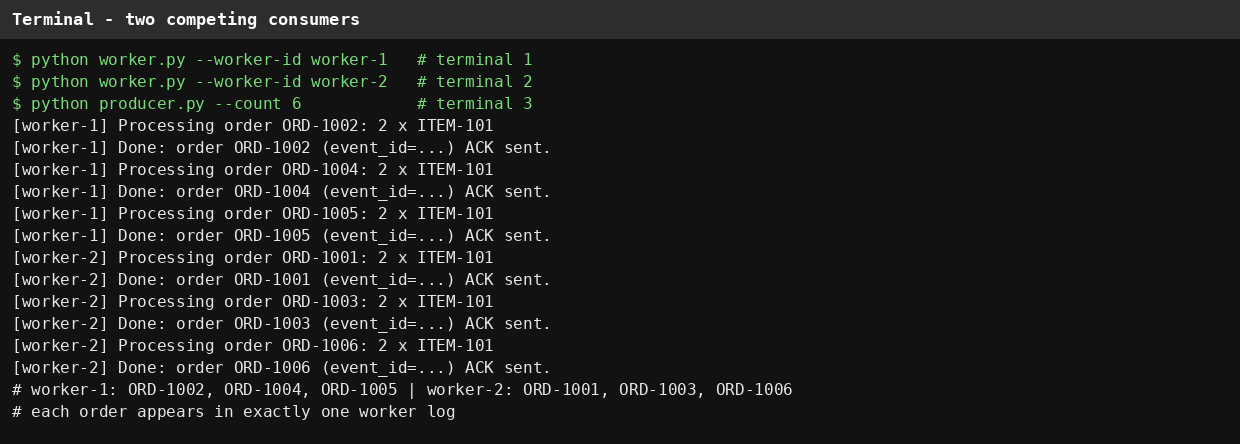
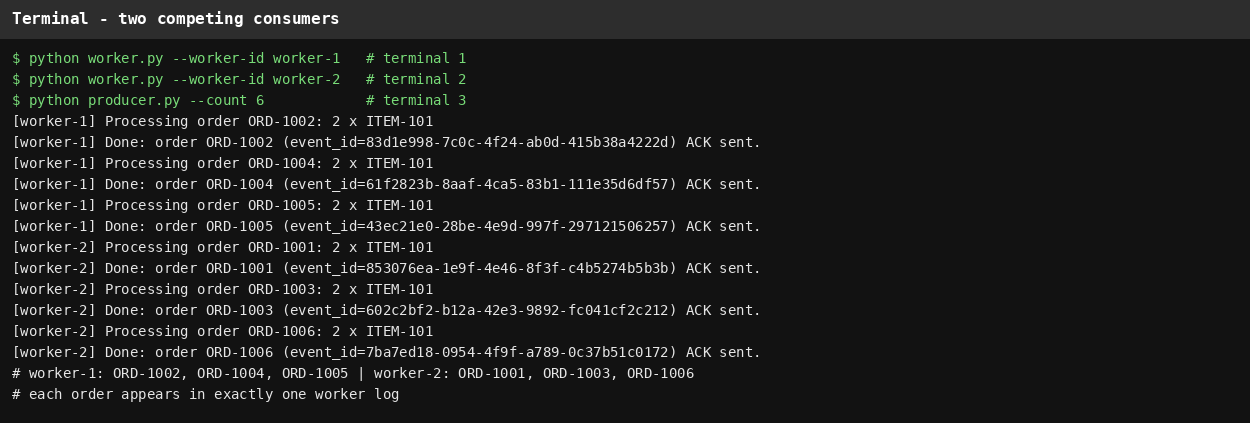
Use shared processed_events.txt for duplicate handling

Changed region(s): [[0.0, 0.1229, 0.6435, 0.9527], [0.0, 0.0307, 0.3065, 0.0922]]

diff --git a/worker.py b/worker.py
@@ -10,11 +10,17 @@ Usage:
     python worker.py --worker-id worker-2
     python worker.py --worker-id worker-1 --crash-on-event evt-001
 
-Duplicate handling: event_ids already processed by this worker are
-kept in an in-memory set. A repeat is ACKed but not processed again.
+Duplicate handling: processed event_ids are kept in a shared record,
+processed_events.txt, in the same folder as this file. Every worker
+reads that file on every message, under a file lock, so a duplicate
+is detected even when a different worker processed the first copy.
+A repeat is ACKed but not processed again. Delete
+processed_events.txt before a fresh demo run, or earlier event_ids
+will (correctly) be reported as duplicates.
 Failure handling: if the worker stops before ACKing (see
 --crash-on-event), RabbitMQ requeues the message and delivers it
-to another worker.
+to another worker. The simulated crash happens before the event_id
+is recorded, so the redelivered message is processed, not skipped.
 """
 
 import argparse
@@ -22,10 +28,45 @@ import json
 import os
 import sys
 import time
+from contextlib import contextmanager
 
 import pika
 
+try:
+    import fcntl
+except ImportError:  # non-Unix platforms: lock is skipped, file is still shared
+    fcntl = None
+
 QUEUE = "orders"
+BASE_DIR = os.path.dirname(os.path.abspath(__file__))
+PROCESSED_FILE = os.path.join(BASE_DIR, "processed_events.txt")
+LOCK_FILE = os.path.join(BASE_DIR, "processed_events.lock")
+
+
+@contextmanager
+def shared_lock():
+    """Hold an exclusive lock on the shared record, if fcntl is available."""
+    if fcntl is None:
+        yield
+        return
+    with open(LOCK_FILE, "a") as lock:
+        fcntl.flock(lock, fcntl.LOCK_EX)
+        try:
+            yield
+        finally:
+            fcntl.flock(lock, fcntl.LOCK_UN)
+
+
+def is_processed(event_id):
+    if not os.path.exists(PROCESSED_FILE):
+        return False
+    with open(PROCESSED_FILE) as f:
+        return event_id in {line.strip() for line in f if line.strip()}
+
+
+def mark_processed(event_id):
+    with open(PROCESSED_FILE, "a") as f:
+        f.write(event_id + "\n")
 
 
 def main():
@@ -34,9 +75,13 @@ def main():
     parser.add_argument("--crash-on-event", default=None,
                         help="Simulate a crash on this event_id: exit "
                              "without sending an ACK.")
+    parser.add_argument("--priority", type=int, default=0,
+                        help="Consumer priority (x-priority): RabbitMQ "
+                             "delivers to the highest-priority idle "
+                             "worker first. Used in the failure demo so "
+                             "the crashing worker receives the message "
+                             "even though both workers are running.")
     args = parser.parse_args()
-
-    processed = set()  # in-memory store of processed event_ids
 
     connection = pika.BlockingConnection(
         pika.ConnectionParameters(host="localhost"))
@@ -49,29 +94,36 @@ def main():
         event_id = order["event_id"]
         print(f"[{args.worker_id}] Received: {order}", flush=True)
 
-        if event_id in processed:
-            print(f"[{args.worker_id}] Duplicate detected: "
-                  f"event_id={event_id} already processed, "
-                  f"skipping business action.", flush=True)
-            ch.basic_ack(delivery_tag=method.delivery_tag)
-            return
-
+        # Simulated crash: before the event_id is recorded, so the
+        # redelivered message is processed by the next worker.
         if args.crash_on_event and event_id == args.crash_on_event:
             print(f"[{args.worker_id}] Simulating crash on "
                   f"event_id={event_id} (no ACK sent).", flush=True)
             # Exit without ACKing: RabbitMQ requeues the message.
             os._exit(1)
 
+        # Shared record, checked and reserved under one lock, so two
+        # workers cannot both decide a duplicate is new.
+        with shared_lock():
+            if is_processed(event_id):
+                print(f"[{args.worker_id}] Duplicate detected: "
+                      f"event_id={event_id} already processed "
+                      f"(shared record), skipping business action.",
+                      flush=True)
+                ch.basic_ack(delivery_tag=method.delivery_tag)
+                return
+            mark_processed(event_id)
+
         print(f"[{args.worker_id}] Processing order "
               f"{order['order_id']}: {order['quantity']} x "
               f"{order['item_id']}", flush=True)
         time.sleep(0.5)  # simulate work; keeps the demo distribution visible
-        processed.add(event_id)
         ch.basic_ack(delivery_tag=method.delivery_tag)
         print(f"[{args.worker_id}] Done: order {order['order_id']} "
               f"(event_id={event_id}) ACK sent.", flush=True)
 
-    channel.basic_consume(queue=QUEUE, on_message_callback=callback)
+    channel.basic_consume(queue=QUEUE, on_message_callback=callback,
+                          arguments={"x-priority": args.priority})
     print(f"[{args.worker_id}] Waiting for messages. "
           f"To exit press CTRL+C", flush=True)
     try:

diff --git a/README.md b/README.md
@@ -20,10 +20,13 @@ rabbitmq-server -detached
 # or: docker run -d -p 5672:5672 rabbitmq:3
 ```
 
-Install dependencies and run the workers in separate terminals:
+Install dependencies and run the workers in separate terminals.
+For a fresh demo run, first delete the shared processed record so
+earlier event_ids are not reported as duplicates:
 
 ```bash
 pip install -r requirements.txt
+rm -f processed_events.txt processed_events.lock
 
 python worker.py --worker-id worker-1
 python worker.py --worker-id worker-2
@@ -63,40 +66,51 @@ logs, and the queue was empty afterwards.
 
 Worker-1 was started with `--crash-on-event evt-crash-001`, so it
 received ORD-9001 and exited without sending an ACK. RabbitMQ
-redelivered the message to worker-2, which processed and ACKed it.
-A later order (ORD-9002) was then processed normally, so the system
-remained running.
+redelivered the same message to worker-2, which processed and ACKed
+it. A later order (ORD-9002) was then processed normally, so the
+system remained running. The screenshot below is the verbatim log
+of that run, including worker-1's exit.
 
 ```
-[worker-1] Received: {'event_id': 'evt-crash-001', 'order_id': 'ORD-9001', ...}
+[worker-1] Received: {'event_id': 'evt-crash-001', 'order_id': 'ORD-9001', 'item_id': 'ITEM-101', 'quantity': 2}
 [worker-1] Simulating crash on event_id=evt-crash-001 (no ACK sent).
-[worker-2] Received: {'event_id': 'evt-crash-001', 'order_id': 'ORD-9001', ...}
+[harness] worker-1 exited with code 1 (no ACK sent)
+[worker-2] Received: {'event_id': 'evt-crash-001', 'order_id': 'ORD-9001', 'item_id': 'ITEM-101', 'quantity': 2}
 [worker-2] Processing order ORD-9001: 2 x ITEM-101
 [worker-2] Done: order ORD-9001 (event_id=evt-crash-001) ACK sent.
+[worker-2] Processing order ORD-9002: 2 x ITEM-101
+[worker-2] Done: order ORD-9002 (event_id=2199d52e-870c-4b88-9470-268e2371f9b8) ACK sent.
 ```
 
 ![Failure and redelivery](screenshots/failure-redelivery.png)
 
-Reproduce it:
+Reproduce it (both workers running; `--priority 10` makes RabbitMQ
+deliver the first message to the crashing worker):
 
 ```bash
-python worker.py --worker-id worker-1 --crash-on-event evt-crash-001
+rm -f processed_events.txt processed_events.lock
+python worker.py --worker-id worker-1 --crash-on-event evt-crash-001 --priority 10
 python worker.py --worker-id worker-2
 python producer.py --count 1 --event-id evt-crash-001 --order-id ORD-9001
+python producer.py --count 1 --order-id ORD-9002
 ```
 
 ## Evidence: duplicate handling
 
-The worker keeps processed `event_id` values in an in-memory set.
-Publishing the same event twice (one worker running) processes it
-once and skips the second copy:
+Processed `event_id` values are kept in a shared record,
+`processed_events.txt`, which both workers read on every message
+under a file lock. Publishing the same event twice with both
+workers running processes it once; the second copy is detected
+by the other worker from the shared record and skipped. In the
+run below, worker-2 processed the first copy and worker-1 caught
+the duplicate:
 
 ```
-[worker-1] Processing order ORD-8001: 2 x ITEM-101
-[worker-1] Done: order ORD-8001 (event_id=evt-dup-001) ACK sent.
-[worker-1] Received: {'event_id': 'evt-dup-001', 'order_id': 'ORD-8001', ...}
-[worker-1] Duplicate detected: event_id=evt-dup-001 already processed,
-           skipping business action.
+[worker-2] Processing order ORD-8001: 2 x ITEM-101
+[worker-2] Done: order ORD-8001 (event_id=evt-dup-001) ACK sent.
+[worker-1] Received: {'event_id': 'evt-dup-001', 'order_id': 'ORD-8001', 'item_id': 'ITEM-101', 'quantity': 2}
+[worker-1] Duplicate detected: event_id=evt-dup-001 already processed
+           (shared record), skipping business action.
 ```
 
 The duplicate is still ACKed, so it is removed from the queue
@@ -107,7 +121,9 @@ without being processed again.
 Reproduce it:
 
 ```bash
+rm -f processed_events.txt processed_events.lock
 python worker.py --worker-id worker-1
+python worker.py --worker-id worker-2
 python producer.py --count 2 --event-id evt-dup-001 --order-id ORD-8001
 ```
 
@@ -120,6 +136,6 @@ the message to keep it from being lost. That at-least-once delivery
 means the same order can legitimately arrive twice, even though
 nothing went wrong with the queue itself. Idempotent handling
 solves this by keying the business action on `event_id`: the first
-delivery is processed and recorded, and any repeat is recognised
-and skipped. The result is that redelivery keeps the system
+delivery is processed and recorded in a record shared by all
+workers, and any repeat is recognised and skipped. The result is that redelivery keeps the system
 reliable without causing the order to be processed twice.
